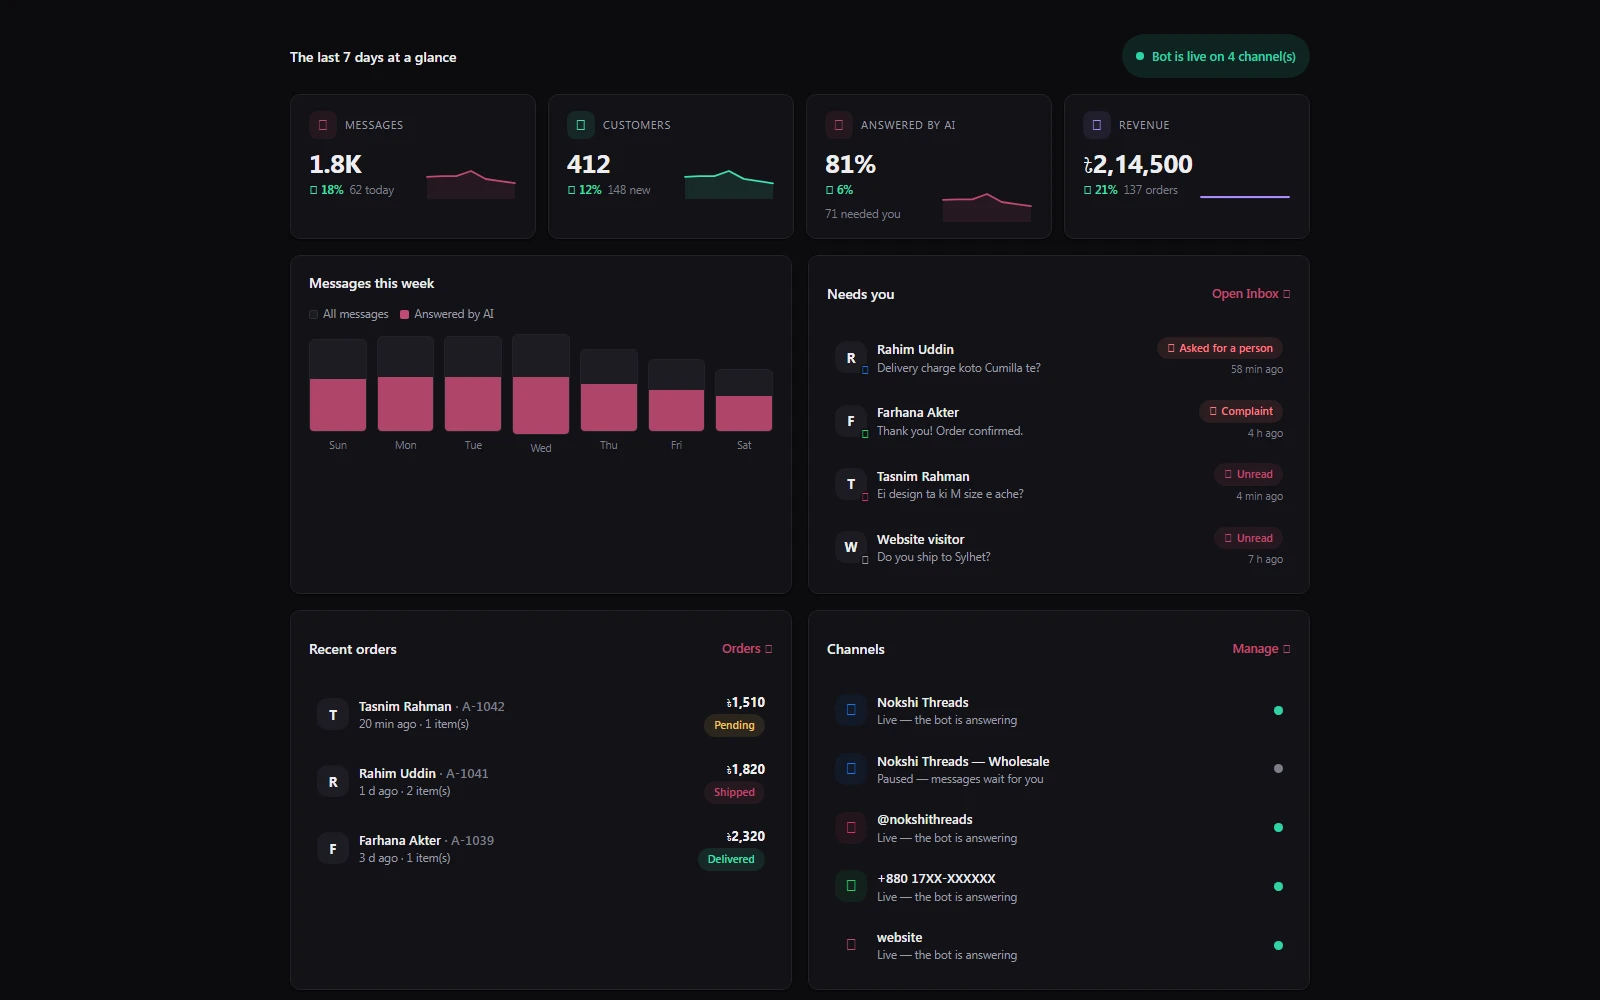
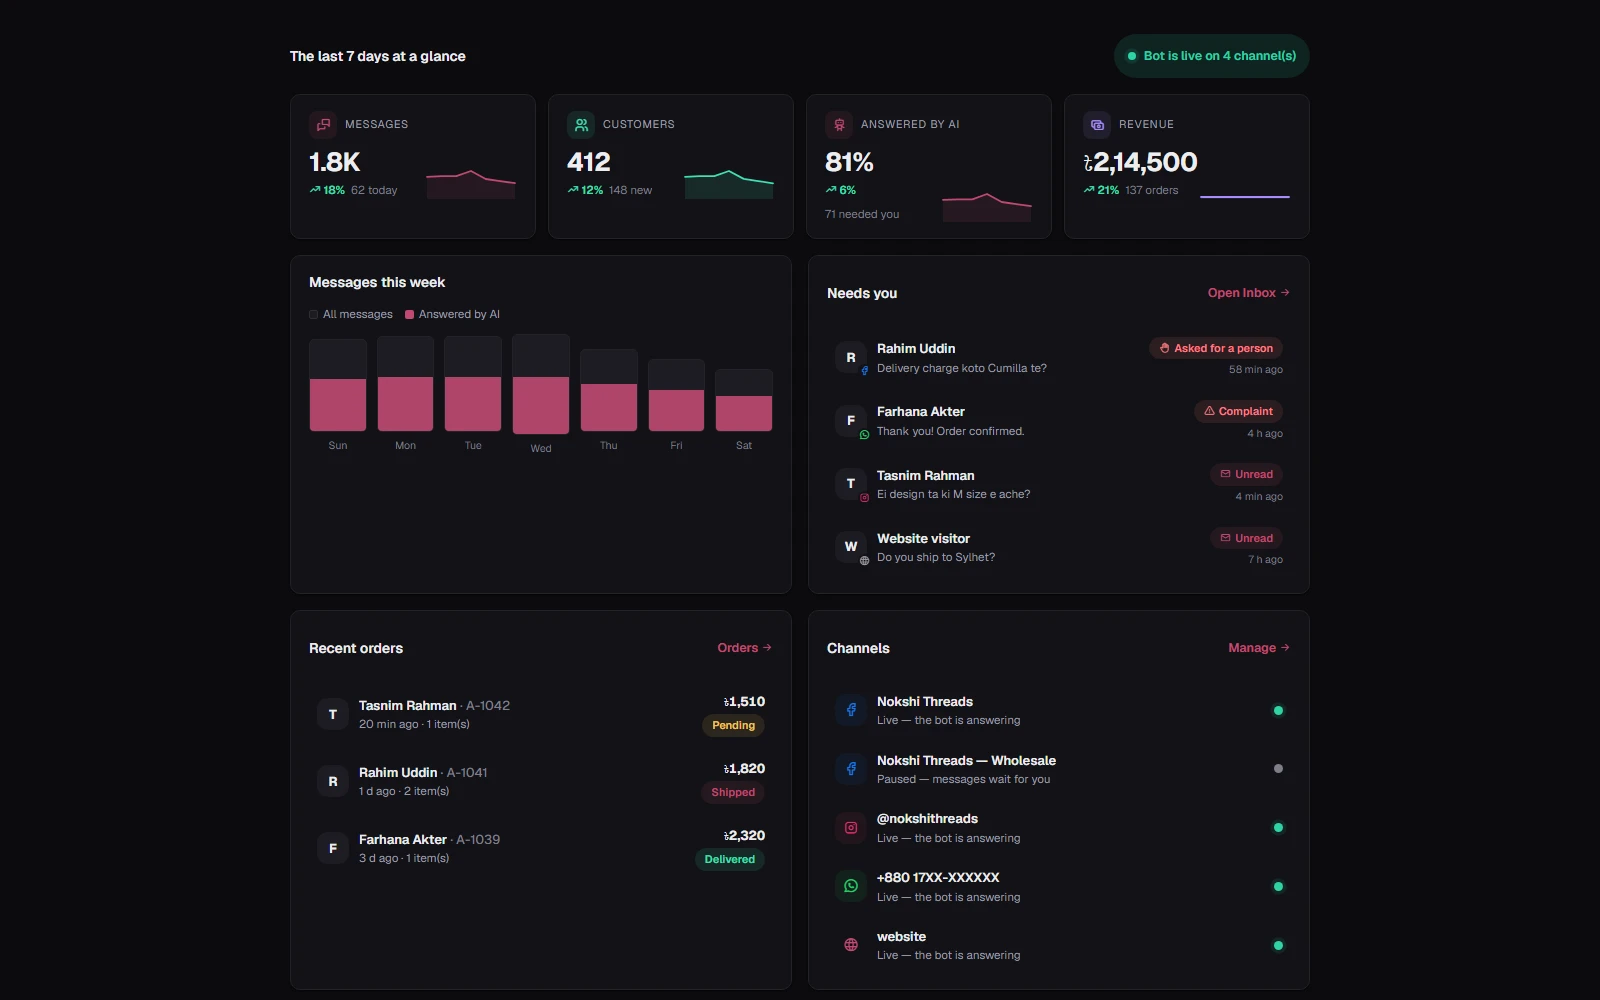
Header search: customers, orders and products from every page
The design deck's "Search customers, orders…" box, in the page header on
every tab (behind a magnifier button on a phone). It looks through what
the dashboard has already loaded — the chat list, the orders and the
catalogue — as the owner types, grouped as Customers / Orders / Products
(five each), and jumps to the pick: a customer opens their chat, an order
opens in Orders, a product opens Inventory with that search filled in
(Inventory's intent gains `search`). Arrow keys and Enter walk the list;
Escape or a click elsewhere closes it. An agency searches customers only.

The matching is pure (src/lib/global-search.js) and tested in
tests/t-search.mjs (18 checks: name, order code, phone, an item inside an
order, a WhatsApp number, message text, product name/code/brand/category,
sale price over regular, the agency rule, the per-group limit).

Manual: the "Around every tab" section (en + bn). Verified in headless
Chrome: typing "ra" on a desktop lists the matches and Enter opens the
Inbox; on a phone the magnifier, "panjabi" and a tap opens Inventory.
62/62 suites.

diff --git a/src/app/dashboard/components/GlobalSearch.js b/src/app/dashboard/components/GlobalSearch.js
@@ -1,0 +1,91 @@
+"use client";
+import { useEffect, useMemo, useRef, useState } from "react";
+import { T, taka } from "./ui.js";
+import { findAll, flatten } from "@/lib/global-search.js";
+
+// The search box in every page's header ("Search customers, orders…", the
+// owner's design deck of 2026-09-20). It looks through what the dashboard has
+// already loaded and jumps to the pick: a customer opens their chat, an order
+// opens in Orders, a product opens Inventory with that search filled in. The
+// matching itself is src/lib/global-search.js.
+
+const PCOLOR = { facebook: "#1877f2", instagram: "#e1306c", whatsapp: "#25d366" };
+
+export default function GlobalSearch({ convos = [], orders = [], products = [], isAgency = false, onGo, t, autoFocus = false, onClose, style }) {
+  const [q, setQ] = useState("");
+  const [open, setOpen] = useState(false);
+  const [hi, setHi] = useState(0);
+  const box = useRef(null);
+  const groups = useMemo(() => findAll(q, { convos, orders, products, isAgency }), [q, convos, orders, products, isAgency]);
+  const rows = flatten(groups);
+  useEffect(() => { setHi(0); }, [q]);
+  // A click anywhere else closes the list.
+  useEffect(() => {
+    const h = (e) => { if (box.current && !box.current.contains(e.target)) setOpen(false); };
+    document.addEventListener("mousedown", h);
+    return () => document.removeEventListener("mousedown", h);
+  }, []);
+
+  const pick = (r) => {
+    if (!r) return;
+    onGo?.(r.kind, r.id, q);
+    setQ(""); setOpen(false); onClose?.();
+  };
+  const onKey = (e) => {
+    if (e.key === "Escape") { setOpen(false); onClose?.(); return; }
+    if (!rows.length) return;
+    if (e.key === "ArrowDown") { e.preventDefault(); setHi((i) => (i + 1) % rows.length); }
+    else if (e.key === "ArrowUp") { e.preventDefault(); setHi((i) => (i - 1 + rows.length) % rows.length); }
+    else if (e.key === "Enter") { e.preventDefault(); pick(rows[hi]); }
+  };
+
+  const showList = open && q.trim().length > 0;
+  let idx = -1;
+  const group = (title, items, render) => items.length ? <div key={title}>
+    <div style={{ fontSize: 10.5, fontWeight: 700, letterSpacing: ".08em", textTransform: "uppercase", color: T.textDim, padding: "8px 12px 4px" }}>{title}</div>
+    {items.map((r) => { idx++; const on = idx === hi; return <button key={r.kind + r.id} type="button" onMouseDown={(e) => e.preventDefault()} onClick={() => pick(r)}
+      style={{ display: "flex", alignItems: "center", gap: 10, width: "100%", padding: "8px 12px", border: "none", cursor: "pointer", textAlign: "left",
+        background: on ? T.goldBg : "transparent", color: T.text, fontFamily: "inherit", minHeight: 40 }}>
+      {render(r)}
+    </button>; })}
+  </div> : null;
+
+  return <div ref={box} style={{ position: "relative", ...style }}>
+    <div style={{ display: "flex", alignItems: "center", gap: 8, height: 42, padding: "0 12px", borderRadius: 10, background: T.card, border: `1px solid ${T.border}` }}>
+      <i className="ti ti-search" style={{ fontSize: 16, color: T.textDim, flexShrink: 0 }} />
+      <input value={q} autoFocus={autoFocus} onChange={(e) => { setQ(e.target.value); setOpen(true); }} onFocus={() => setOpen(true)} onKeyDown={onKey}
+        placeholder={t(isAgency ? "shell.searchAgency" : "shell.search")} aria-label={t("shell.searchAria")}
+        style={{ flex: 1, minWidth: 0, background: "none", border: "none", outline: "none", color: T.text, fontSize: 13.5 }} />
+      {q && <button type="button" onClick={() => { setQ(""); setOpen(false); }} aria-label="Clear" style={{ background: "none", border: "none", cursor: "pointer", color: T.textDim, padding: 2, display: "flex" }}><i className="ti ti-x" style={{ fontSize: 14 }} /></button>}
+    </div>
+    {showList && <div role="listbox" style={{ position: "absolute", top: "calc(100% + 6px)", left: 0, right: 0, zIndex: 60, background: T.card, border: `1px solid ${T.border}`,
+      borderRadius: 12, boxShadow: T.nmOut, padding: "4px 0", maxHeight: "min(60vh, 420px)", overflowY: "auto" }}>
+      {rows.length ? <>
+        {group(t("search.customers"), groups.customers, (r) => <>
+          <span style={{ position: "relative", width: 30, height: 30, borderRadius: "50%", background: T.goldBg, color: T.gold, display: "inline-flex", alignItems: "center", justifyContent: "center", fontSize: 11.5, fontWeight: 700, flexShrink: 0 }}>
+            {String(r.title || "?").trim().replace(/^\+/, "").split(/\s+/).map((w) => w[0]).slice(0, 2).join("").toUpperCase() || "?"}
+            <span style={{ position: "absolute", right: -1, bottom: -1, width: 9, height: 9, borderRadius: "50%", background: PCOLOR[r.platform] || T.textDim, border: `2px solid ${T.card}` }} />
+          </span>
+          <span style={{ minWidth: 0, flex: 1 }}>
+            <span style={{ display: "block", fontSize: 13, fontWeight: 600, overflow: "hidden", textOverflow: "ellipsis", whiteSpace: "nowrap" }}>{r.title}</span>
+            {r.sub && <span style={{ display: "block", fontSize: 11.5, color: T.textMuted, overflow: "hidden", textOverflow: "ellipsis", whiteSpace: "nowrap" }}>{r.sub}</span>}
+          </span>
+        </>)}
+        {group(t("search.orders"), groups.orders, (r) => <>
+          <span style={{ width: 30, height: 30, borderRadius: 9, background: T.inset, color: T.textMuted, display: "inline-flex", alignItems: "center", justifyContent: "center", flexShrink: 0 }}><i className="ti ti-shopping-cart" style={{ fontSize: 15 }} /></span>
+          <span style={{ minWidth: 0, flex: 1 }}>
+            <span style={{ display: "block", fontSize: 13, fontWeight: 600, overflow: "hidden", textOverflow: "ellipsis", whiteSpace: "nowrap" }}>{r.title}</span>
+            <span style={{ display: "block", fontSize: 11.5, color: T.textMuted }}>{r.sub}{r.total != null ? ` · ${taka(r.total)}` : ""}</span>
+          </span>
+        </>)}
+        {group(t("search.products"), groups.products, (r) => <>
+          <span style={{ width: 30, height: 30, borderRadius: 9, background: T.inset, color: T.textMuted, display: "inline-flex", alignItems: "center", justifyContent: "center", flexShrink: 0 }}><i className="ti ti-package" style={{ fontSize: 15 }} /></span>
+          <span style={{ minWidth: 0, flex: 1 }}>
+            <span style={{ display: "block", fontSize: 13, fontWeight: 600, overflow: "hidden", textOverflow: "ellipsis", whiteSpace: "nowrap" }}>{r.title}</span>
+            <span style={{ display: "block", fontSize: 11.5, color: T.textMuted }}>{[r.sub, r.price != null && r.price !== "" ? taka(r.price) : null].filter(Boolean).join(" · ")}</span>
+          </span>
+        </>)}
+      </> : <div style={{ padding: "14px 12px", fontSize: 12.5, color: T.textMuted }}>{t("search.none", { q: q.trim() })}</div>}
+    </div>}
+  </div>;
+}

diff --git a/src/app/dashboard/components/Shell.js b/src/app/dashboard/components/Shell.js
@@ -3,6 +3,7 @@ import { useEffect, useState } from "react";
 import { T, ThemeToggle, Theme, Motion } from "./ui.js";
 import { BotMark } from "@/lib/brand.js";
 import NotificationsBell from "./NotificationsBell.js";
+import GlobalSearch from "./GlobalSearch.js";
 import { LangToggle, useLang } from "./i18n.js";
 import { api } from "./session.js";
 
@@ -75,8 +76,11 @@ function PlanMeter({ me, t, onClick }) {
 
 export default function Shell({ isMobile, sidebarOpen, setSidebarOpen, fullBleed, me, nav, PAGES, ICONS,
   page, setPage, HOME, navLabel, t, isAgency, activeCount, pendingOrders, onLogout, load, loading, mode, toggleTheme,
-  convos, feed, goTo, children }) {
+  convos, feed, goTo, orders = [], products = [], onFind, children }) {
   const lang = useLang();
+  // On a phone the search box lives behind a magnifier button, in a row of
+  // its own under the header, so the title keeps its room.
+  const [searchOpen, setSearchOpen] = useState(false);
   const hour = new Date().getHours();
   const greet = hour < 12 ? t("ov.morning") : hour < 17 ? t("ov.afternoon") : t("ov.evening");
   const name = me?.client?.business_name || "";
@@ -195,6 +199,9 @@ export default function Shell({ isMobile, sidebarOpen, setSidebarOpen, fullBleed
           </div>
         </div>
         <div style={{ display: "flex", alignItems: "center", gap: isMobile ? 6 : 10, flexShrink: 0 }}>
+          {!isMobile && <GlobalSearch convos={convos} orders={orders} products={products} isAgency={isAgency} onGo={onFind} t={t} style={{ width: 280 }} />}
+          {isMobile && <button onClick={() => setSearchOpen((v) => !v)} className="pbtn" aria-label={t("shell.searchAria")} aria-expanded={searchOpen}
+            style={{ width: 38, height: 38, borderRadius: 10 }}><i className={`ti ti-${searchOpen ? "x" : "search"}`} /></button>}
           <NotificationsBell convos={convos} feed={feed} isMobile={isMobile} onNavigate={goTo} />
           <button onClick={() => setPage("settings")} className="ui-btn shell-primary" title={t("shell.train")} aria-label={t("shell.train")}
             style={{ display: "inline-flex", alignItems: "center", justifyContent: "center", gap: 8, border: "none", cursor: "pointer",
@@ -203,6 +210,9 @@ export default function Shell({ isMobile, sidebarOpen, setSidebarOpen, fullBleed
             <i className="ti ti-wand" style={{ fontSize: 17 }} />{!isMobile && t("shell.train")}
           </button>
         </div>
+      </div>}
+      {!fullBleed && isMobile && searchOpen && <div style={{ padding: "10px 10px 0", flexShrink: 0 }}>
+        <GlobalSearch convos={convos} orders={orders} products={products} isAgency={isAgency} onGo={onFind} t={t} autoFocus onClose={() => setSearchOpen(false)} />
       </div>}
       {children}
     </div>

diff --git a/src/lib/docs/bn.js b/src/lib/docs/bn.js
@@ -359,7 +359,8 @@ export const DOCS = {
 
       { h: "প্রতিটা ট্যাবের চারপাশে",
         p: [
-          "প্রতিটা পাতা একইভাবে খোলে: তারিখ, আপনার ব্যবসার নামসহ একটা সম্ভাষণ, **বেল**, আর একটা বোতাম **বটকে শেখান**, যেটা বট ট্রেনিং খোলে। ফোনে সম্ভাষণের জায়গায় ট্যাবের নাম থাকে।",
+          "প্রতিটা পাতা একইভাবে খোলে: তারিখ, আপনার ব্যবসার নামসহ একটা সম্ভাষণ, একটা **খোঁজার বাক্স**, **বেল**, আর একটা বোতাম **বটকে শেখান**, যেটা বট ট্রেনিং খোলে। ফোনে সম্ভাষণের জায়গায় ট্যাবের নাম থাকে, আর খোঁজার বাক্সটা থাকে আতশকাচের বোতামের পেছনে।",
+          "খোঁজার বাক্সটা লিখতে লিখতেই আপনার কাস্টমার, অর্ডার আর পণ্য একসাথে খোঁজে। কোনো কাস্টমার বাছলে তাঁর চ্যাট খোলে; অর্ডার বাছলে অর্ডার ট্যাবে সেটা খোলে; পণ্য বাছলে ইনভেন্টরি খোলে, খোঁজার ঘরে লেখাটা বসানো অবস্থায়। তীর চিহ্নের বোতাম আর Enter-ও কাজ করে।",
           "বাঁ দিকের মেনু একটা সাধারণ তালিকা। **ইনবক্স**-এর পাশে না-পড়া চ্যাটের সংখ্যা, **অর্ডার**-এর পাশে এখনো নিশ্চিত না-করা অর্ডারের সংখ্যা। সবার নিচে আপনার প্যাকেজ আর এই মাসে বটের উত্তরের কতটা ব্যবহার হয়েছে — চাপলে বিলিং-এ পুরো হিসাব। তার ঠিক নিচে ভাষা, রিফ্রেশ আর আলো/অন্ধকারের সুইচ।",
         ] },
 

diff --git a/src/app/dashboard/components/i18n.js b/src/app/dashboard/components/i18n.js
@@ -339,6 +339,8 @@ const DICT = {
     "shell.train": "Train your bot", "shell.managePlan": "Manage plan",
     "shell.usedMonth": "{used} of {limit} replies used this month", "shell.usedDay": "{used} of {limit} replies used today",
     "shell.usedFree": "{used} replies this month",
+    "shell.search": "Search customers, orders…", "shell.searchAgency": "Search customers…", "shell.searchAria": "Search",
+    "search.customers": "Customers", "search.orders": "Orders", "search.products": "Products", "search.none": "Nothing matches “{q}”",
     "inbox.title": "Conversations", "inbox.all": "All", "inbox.needs": "Needs you", "inbox.manual": "Manual",
     "inbox.botReplying": "Bot replying", "inbox.youReplying": "You are replying", "inbox.takeOver": "Take over", "inbox.handBack": "Hand back to bot",
     "inbox.placeholder": "Write a reply or let the bot answer…", "inbox.answeredIn": "answered in {s} s",
@@ -755,6 +757,8 @@ const DICT = {
     "shell.train": "বটকে শেখান", "shell.managePlan": "প্যাকেজ দেখুন",
     "shell.usedMonth": "এই মাসে {limit}টার মধ্যে {used}টা উত্তর ব্যবহার হয়েছে", "shell.usedDay": "আজ {limit}টার মধ্যে {used}টা উত্তর ব্যবহার হয়েছে",
     "shell.usedFree": "এই মাসে {used}টা উত্তর",
+    "shell.search": "কাস্টমার, অর্ডার খুঁজুন…", "shell.searchAgency": "কাস্টমার খুঁজুন…", "shell.searchAria": "খুঁজুন",
+    "search.customers": "কাস্টমার", "search.orders": "অর্ডার", "search.products": "পণ্য", "search.none": "“{q}”-এর সাথে কিছু মেলেনি",
     "inbox.title": "কথোপকথন", "inbox.all": "সব", "inbox.needs": "আপনাকে দরকার", "inbox.manual": "ম্যানুয়াল",
     "inbox.botReplying": "বট উত্তর দিচ্ছে", "inbox.youReplying": "আপনি উত্তর দিচ্ছেন", "inbox.takeOver": "দায়িত্ব নিন", "inbox.handBack": "বটকে ফেরত দিন",
     "inbox.placeholder": "উত্তর লিখুন, বা বটকে দিতে দিন…", "inbox.answeredIn": "{s} সেকেন্ডে উত্তর",

diff --git a/src/lib/global-search.js b/src/lib/global-search.js
@@ -1,0 +1,39 @@
+// The header's search box, the pure half: which chats, orders and products
+// match what was typed. No imports, so the dashboard component and the test
+// suite run the same code. The component (GlobalSearch.js) draws the list
+// and jumps to the pick.
+//
+// Everything searched is already loaded by the dashboard shell — the chat
+// list, the orders and the catalogue — so this never fetches. An agency has
+// no orders or catalogue to search; its customers are enough.
+
+const norm = (s) => String(s ?? "").toLowerCase().trim();
+const has = (hay, q) => norm(hay).includes(q);
+
+export function findAll(query, { convos = [], orders = [], products = [], isAgency = false } = {}, limit = 5) {
+  const q = norm(query);
+  if (q.length < 1) return { customers: [], orders: [], products: [] };
+
+  const customers = convos
+    .filter((c) => has(c.sender, q) || has(c.id, q) || has(c.lastMsg, q))
+    .slice(0, limit)
+    .map((c) => ({ kind: "customer", id: c.id, title: c.sender || String(c.id), sub: c.lastMsg || "", platform: c.platform || "facebook" }));
+
+  const ords = isAgency ? [] : orders
+    .filter((o) => has(o.order_code, q) || has(o.customer_name, q) || has(o.phone_number, q) || has(o.product_names, q)
+      || (o.items || []).some((i) => has(i.name, q) || has(i.code, q)))
+    .slice(0, limit)
+    .map((o) => ({ kind: "order", id: o.id, title: [o.order_code, o.customer_name].filter(Boolean).join(" · "), sub: o.status || "Pending", total: o.total }));
+
+  const prods = isAgency ? [] : products
+    .filter((p) => has(p.product_name, q) || has(p.product_code, q) || has(p.brand, q) || has(p.category, q))
+    .slice(0, limit)
+    .map((p) => ({ kind: "product", id: p.id, title: p.product_name || "", sub: p.product_code || p.category || "", price: Number(p.sale_price) > 0 ? p.sale_price : p.regular_price }));
+
+  return { customers, orders: ords, products: prods };
+}
+
+// The rows in the order the list shows them, so the keyboard can walk them.
+export function flatten(groups) {
+  return [...groups.customers, ...groups.orders, ...groups.products];
+}

diff --git a/src/app/dashboard-client.js b/src/app/dashboard-client.js
@@ -885,7 +885,15 @@ export default function Dashboard() {
   // menu button) so the sidebar is still reachable. Never on desktop.
   const fullBleed=isMobile&&((page==="conversations"&&chatOpen)||page==="assistant");
   const onLogout=async()=>{try{await unbindNativePush();}catch{} try{await getSb().auth.signOut({scope:"local"});}catch{} try{localStorage.removeItem("gv_app_signed_in");}catch{} setAuthToken(""); window.location.reload();};
-  return <Shell {...{isMobile,sidebarOpen,setSidebarOpen,fullBleed,me,nav:NAV,PAGES,ICONS,page,setPage,HOME,navLabel,t,isAgency,activeCount,pendingOrders,onLogout,load,loading,mode,toggleTheme,convos,feed,goTo}}>
+  // The header's search box picked something: a customer opens their chat,
+  // an order opens in Orders, a product opens Inventory with the search
+  // already typed in.
+  const onFind=(kind,id,q)=>{
+    if(kind==="customer") goTo("conversations",id);
+    else if(kind==="order") goTo("orders",id);
+    else if(kind==="product"){ setInvIntent({search:q,at:Date.now()}); setPage("inventory"); }
+  };
+  return <Shell {...{isMobile,sidebarOpen,setSidebarOpen,fullBleed,me,nav:NAV,PAGES,ICONS,page,setPage,HOME,navLabel,t,isAgency,activeCount,pendingOrders,onLogout,load,loading,mode,toggleTheme,convos,feed,goTo,orders,products,onFind}}>
       <div style={{flex:1,overflow:"auto",padding:fullBleed?0:(isMobile?"12px 10px":20),minHeight:0,minWidth:0}}>
         {loading?<div style={{display:"flex",alignItems:"center",justifyContent:"center",padding:60,flexDirection:"column",gap:16}}><div style={{width:32,height:32,border:`3px solid ${T.border}`,borderTopColor:T.gold,borderRadius:"50%",animation:"spin 0.8s linear infinite"}}/><span style={{fontSize:13,color:T.textMuted}}>Loading from Supabase...</span></div>:(
           <div key={page} className="ui-page" style={fullBleed?{height:"100%",display:"flex",flexDirection:"column",minHeight:0}:undefined}>

diff --git a/src/lib/docs/en.js b/src/lib/docs/en.js
@@ -366,7 +366,8 @@ export const DOCS = {
 
       { h: "Around every tab",
         p: [
-          "Every page opens the same way: the date, a greeting with your business name, the **bell** and one button, **Train your bot**, which opens Bot Training. On a phone the tab's name takes the greeting's place.",
+          "Every page opens the same way: the date, a greeting with your business name, a **search box**, the **bell** and one button, **Train your bot**, which opens Bot Training. On a phone the tab's name takes the greeting's place and the search sits behind the magnifier.",
+          "The search looks through your customers, orders and products at once, as you type. Pick a customer and their chat opens; an order opens in Orders; a product opens Inventory with that search already filled in. Arrow keys and Enter work too.",
           "The menu on the left is one plain list. **Inbox** carries the number of unread chats and **Orders** the number still waiting to be confirmed. At the bottom, your package and how much of this month's bot replies it has used so far — tap it to see the full picture on Billing. Language, refresh and the light/dark switch sit just under it.",
         ] },
 

diff --git a/src/app/shots/studio.js b/src/app/shots/studio.js
@@ -145,7 +145,8 @@ function ShellScene({ inner }) {
     me={me} nav={DASH_NAV} PAGES={DASH_PAGES} ICONS={DASH_ICONS}
     page={page} setPage={setPage} HOME="overview" navLabel={navLabel} t={t} isAgency={false} activeCount={3} pendingOrders={1}
     onLogout={noop} load={noop} loading={false} mode="light" toggleTheme={noop} convos={PROPS.convos} feed={[]}
-    goTo={(p) => { if (TABS[p]) setPage(p); }}>
+    goTo={(p) => { if (TABS[p]) setPage(p); }} orders={PROPS.orders} products={PROPS.products}
+    onFind={(kind) => setPage(kind === "customer" ? "conversations" : kind === "order" ? "orders" : "inventory")}>
     <div style={{ flex: 1, overflow: "auto", padding: isMobile ? "12px 10px" : 20, minHeight: 0, minWidth: 0 }}>
       <div key={page} className="ui-page">{render()}</div>
     </div>

diff --git a/src/app/dashboard/components/Inventory.js b/src/app/dashboard/components/Inventory.js
@@ -122,6 +122,8 @@ export default function Inventory({ products, refresh, intent, onIntentDone }) {
     if (!intent?.at) return;
     if (intent.importer) { setPrefill(intent.prefill || null); setImporter(intent.importer); }
     if (intent.add) setEditor({ mode: "add" });
+    // The header's search box sent the owner here with what they typed.
+    if (intent.search != null) setSearch(String(intent.search));
     // Consume it. The intent is a ONE-SHOT request from the assistant; the page
     // remounts on every tab switch (key={page} in the shell), so an intent left
     // set would re-open its importer each time the owner came back to Inventory —
